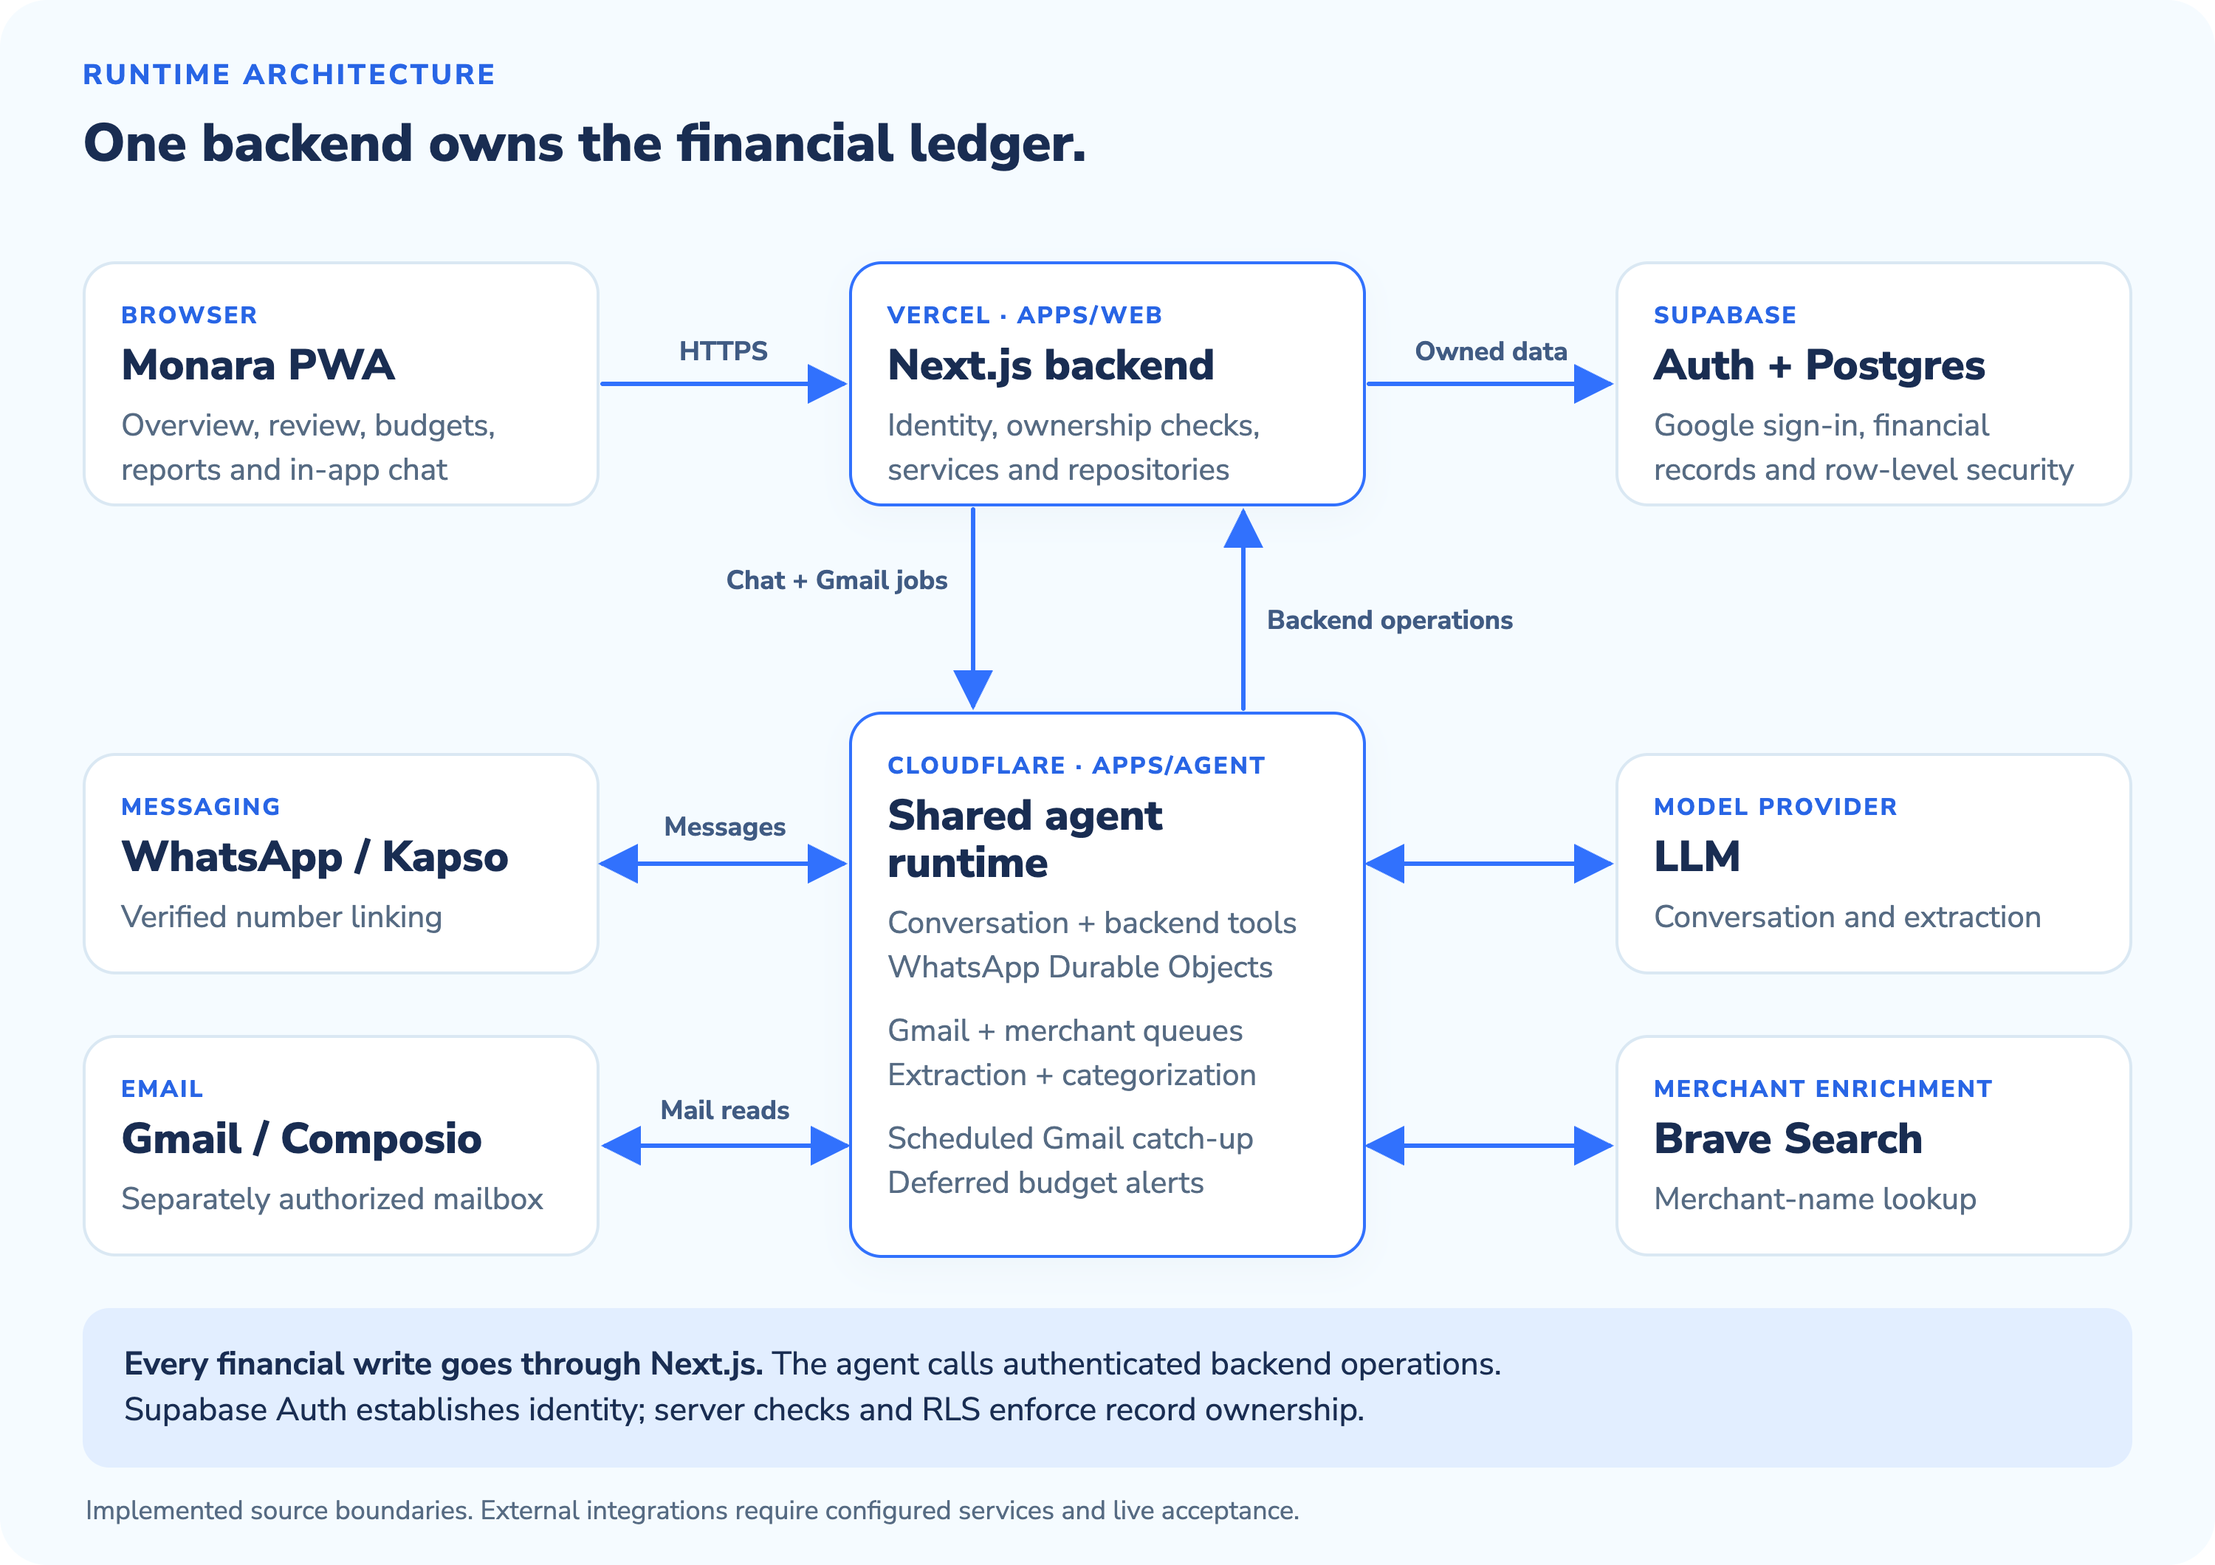
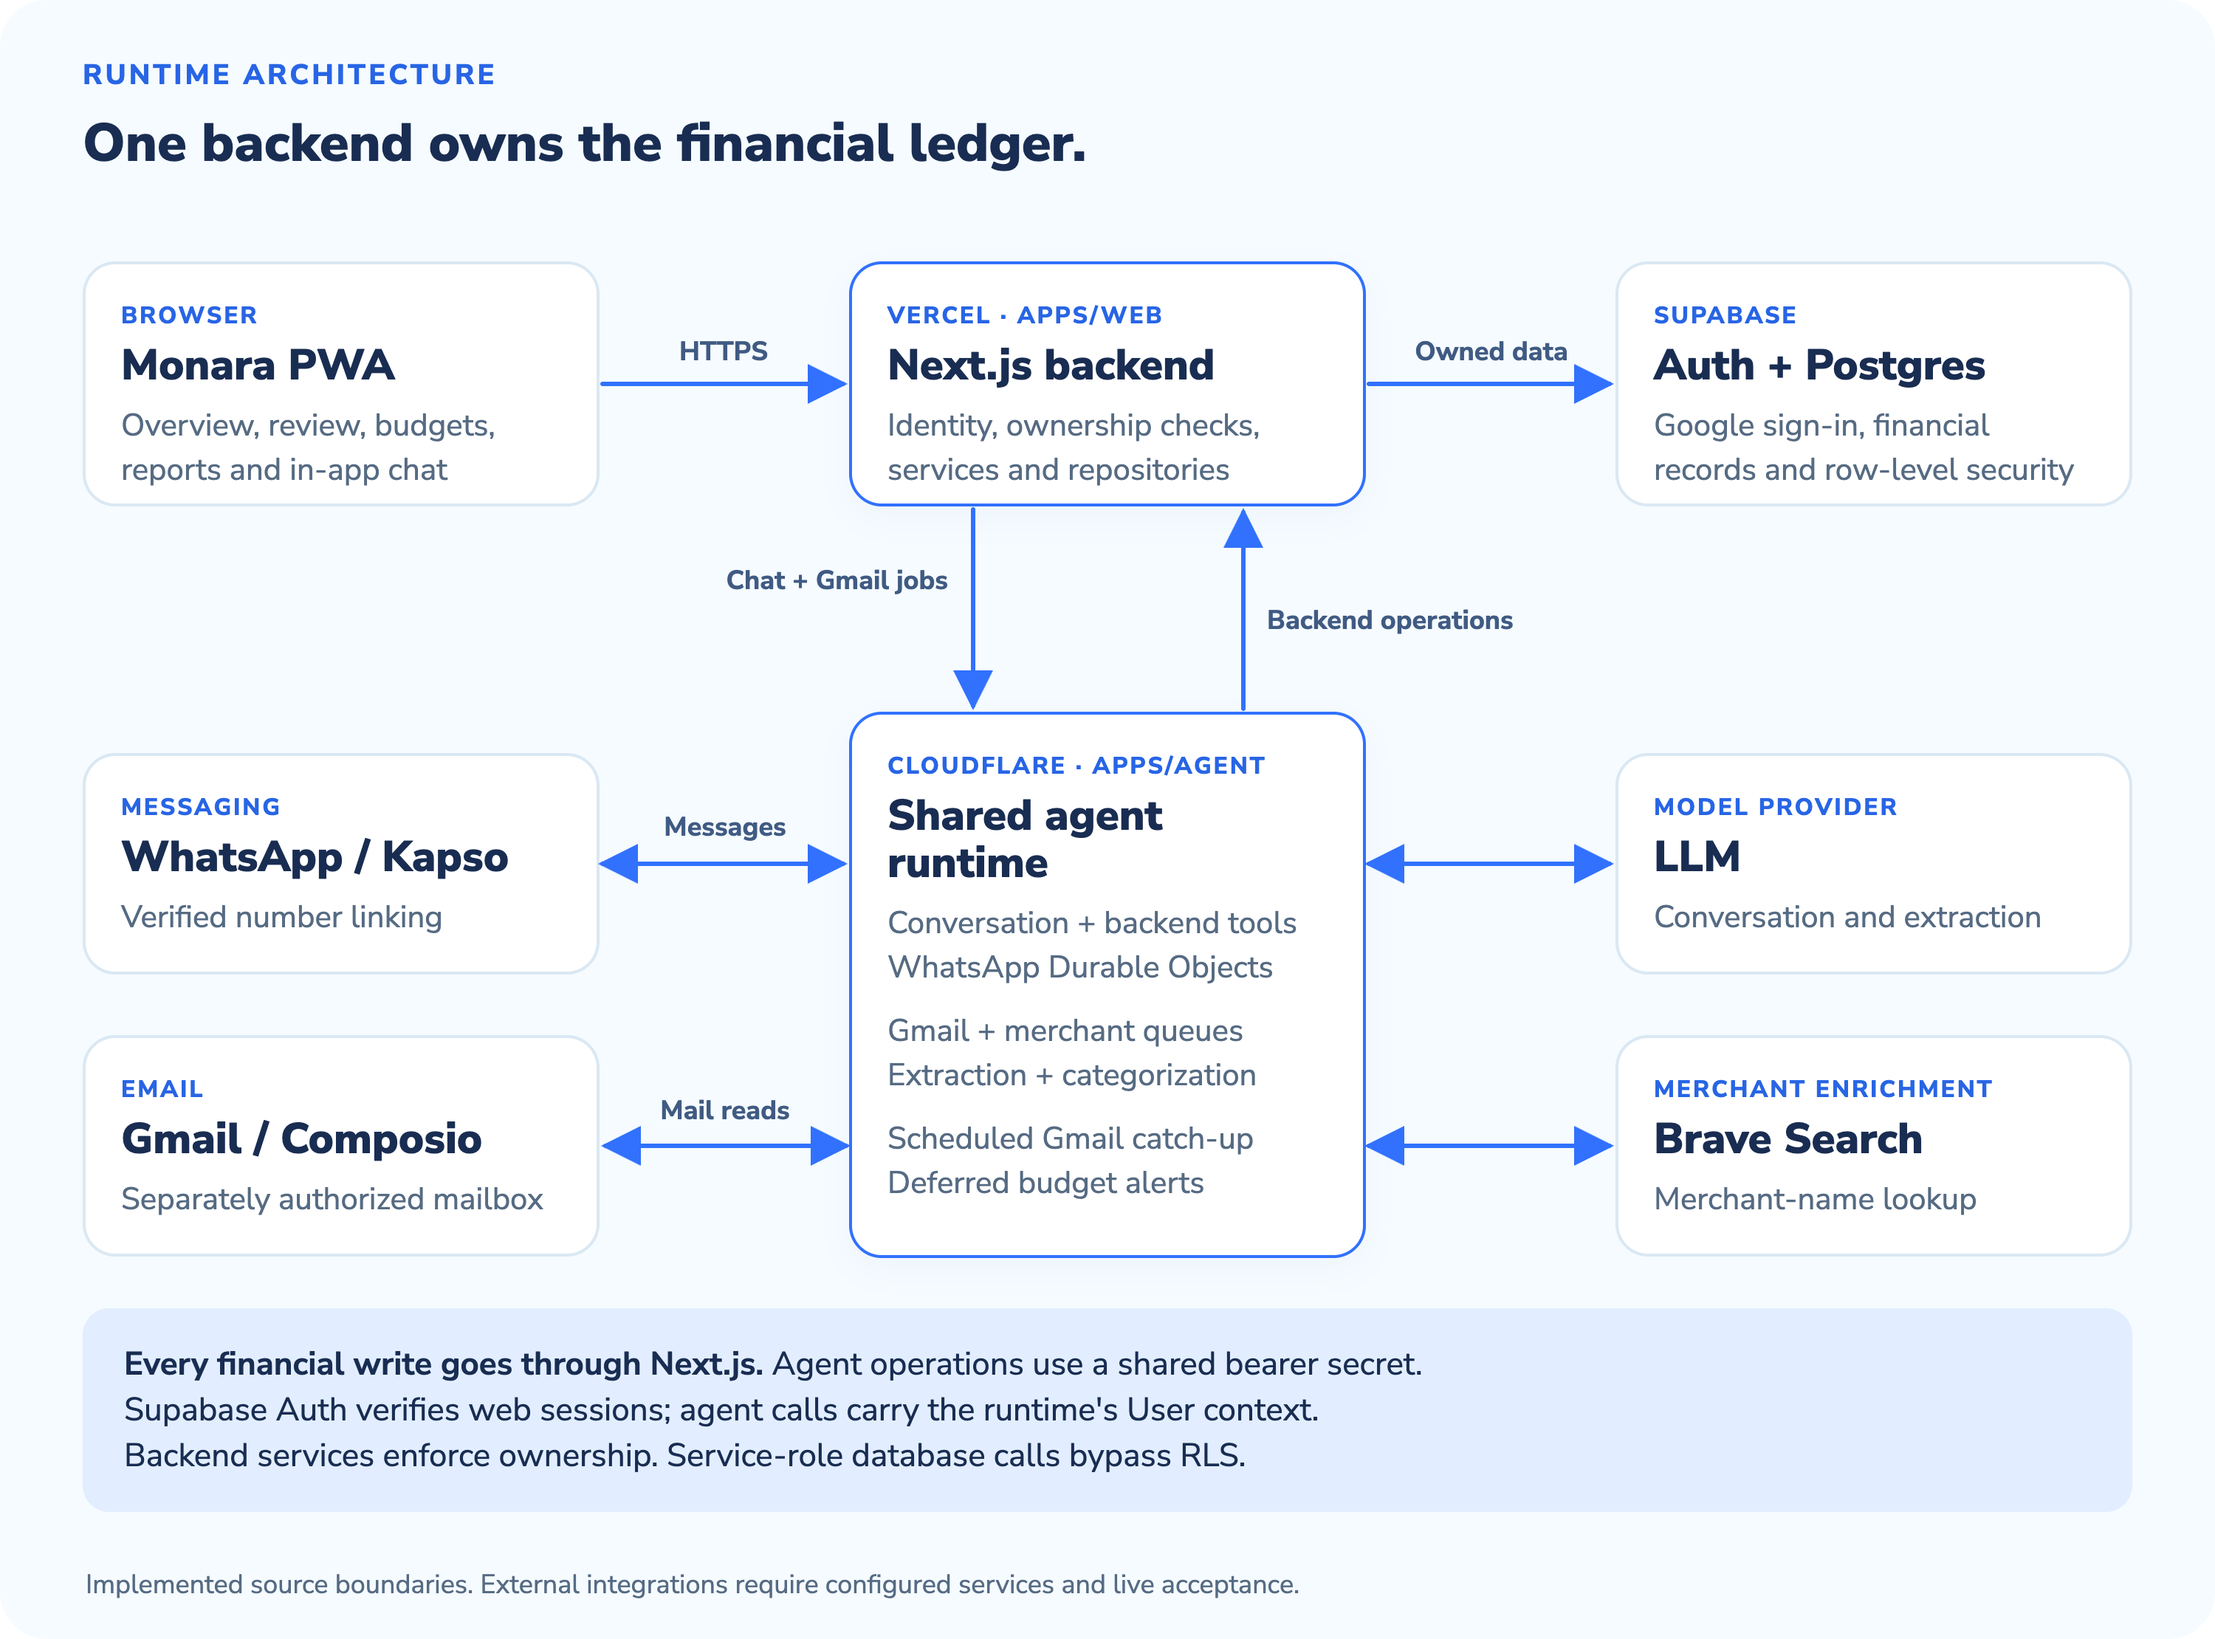
docs: clarify agent identity and service-role ownership checks

diff --git a/docs/assets/readme/src/architecture.html b/docs/assets/readme/src/architecture.html
@@ -5,7 +5,7 @@
   <title>Monara runtime architecture</title>
   <link rel="stylesheet" href="theme.css">
   <style>
-    #w { width: 1500px; height: 1060px; background: #f5fbff; border-radius: 32px; }
+    #w { width: 1500px; height: 1110px; background: #f5fbff; border-radius: 32px; }
     header { position: absolute; left: 56px; top: 38px; }
     h1 { margin: 9px 0 0; font-size: 36px; font-weight: 850; }
     .node { position: absolute; padding: 24px; background: #fff; border: 2px solid var(--line); border-radius: 22px; }
@@ -33,7 +33,7 @@
   <section class="node" style="left:1094px;top:510px;width:350px;height:150px"><span class="tag">Model provider</span><h2>LLM</h2><p>Conversation and extraction</p></section>
   <section class="node" style="left:1094px;top:701px;width:350px;height:150px"><span class="tag">Merchant enrichment</span><h2>Brave Search</h2><p>Merchant-name lookup</p></section>
 
-  <svg width="1500" height="1060" viewBox="0 0 1500 1060" aria-hidden="true">
+  <svg width="1500" height="1110" viewBox="0 0 1500 1110" aria-hidden="true">
     <defs><marker id="arrow" markerWidth="9" markerHeight="9" refX="8" refY="4.5" orient="auto-start-reverse"><path d="M0 0L9 4.5L0 9Z" fill="#3171fd"/></marker></defs>
     <path class="edge" d="M408 260H571"/><text class="label" x="490" y="244" text-anchor="middle">HTTPS</text>
     <path class="edge" d="M927 260H1090"/><text class="label" x="1010" y="244" text-anchor="middle">Owned data</text>
@@ -44,7 +44,7 @@
     <path class="edge" d="M927 585H1090" marker-start="url(#arrow)"/>
     <path class="edge" d="M927 776H1090" marker-start="url(#arrow)"/>
   </svg>
-  <div class="rule"><strong>Every financial write goes through Next.js.</strong> The agent calls authenticated backend operations.<br>Supabase Auth establishes identity; server checks and RLS enforce record ownership.</div>
+  <div class="rule"><strong>Every financial write goes through Next.js.</strong> Agent operations use a shared bearer secret.<br>Supabase Auth verifies web sessions; agent calls carry the runtime's User context.<br>Backend services enforce ownership. Service-role database calls bypass RLS.</div>
   <div class="foot">Implemented source boundaries. External integrations require configured services and live acceptance.</div>
 </main></body>
 </html>

diff --git a/README.md b/README.md
@@ -63,6 +63,8 @@ Individual screenshots: [Overview](docs/assets/readme/screenshots/overview.png) 
 - **Cloudflare Workers** host the shared agent, per-User WhatsApp Durable Objects, Gmail and merchant queues, and scheduled processing. The worker calls authenticated backend operations for financial reads and writes.
 - **Composio and Kapso** handle Gmail access and WhatsApp transport. Signed provider webhooks, server identity checks, and explicit WhatsApp linking establish who may act.
 
+Web requests verify Supabase sessions. Agent requests instead authenticate the runtime with a shared bearer secret and use its supplied User context. Backend services scope financial operations to that User; service-role database calls bypass RLS.
+
 The PWA includes an installable shell and a static offline fallback. Personal financial data and authentication responses are never cached by the service worker.
 
 See [runtime boundaries](docs/adr/0001-initial-runtime-boundaries.md), [workspace ownership](docs/repository-structure.md), and the [agent runtime](apps/agent/README.md) for the detailed contracts. The initial ADR records the architecture decision; its original scaffold status is historical.

diff --git a/docs/assets/readme/README.md b/docs/assets/readme/README.md
@@ -29,6 +29,7 @@ Base URL: `https://monara-finance.vercel.app`. Demo records use a fixed 11 Octob
 The image summarizes source boundaries, not deployment acceptance or every HTTP exchange:
 
 - `apps/web/src/lib/finance/service.ts`, `packages/core/src/finance.ts`, and `packages/core/src/supabase-finance-repository.ts`: owned backend operations and database repositories.
+- `apps/web/src/app/api/agent/operations/[operation]/route.ts`: agent calls authenticate with the shared runtime bearer secret and carry a runtime-supplied User ID, rather than a Supabase session principal. Backend ownership filters protect these service-role operations; RLS does not apply to service-role database calls.
 - `apps/web/src/app/auth/sign-in/route.ts` and `auth/callback/route.ts`: Supabase Google sign-in. Auth token exchange is summarized in the Supabase card.
 - `apps/agent/src/conversation/agent.ts` and `backend.ts`: shared agent and authenticated backend calls.
 - `apps/agent/src/gmail`, `apps/agent/src/merchant`, and `apps/agent/wrangler.jsonc`: durable email processing, merchant enrichment, and scheduled jobs.
